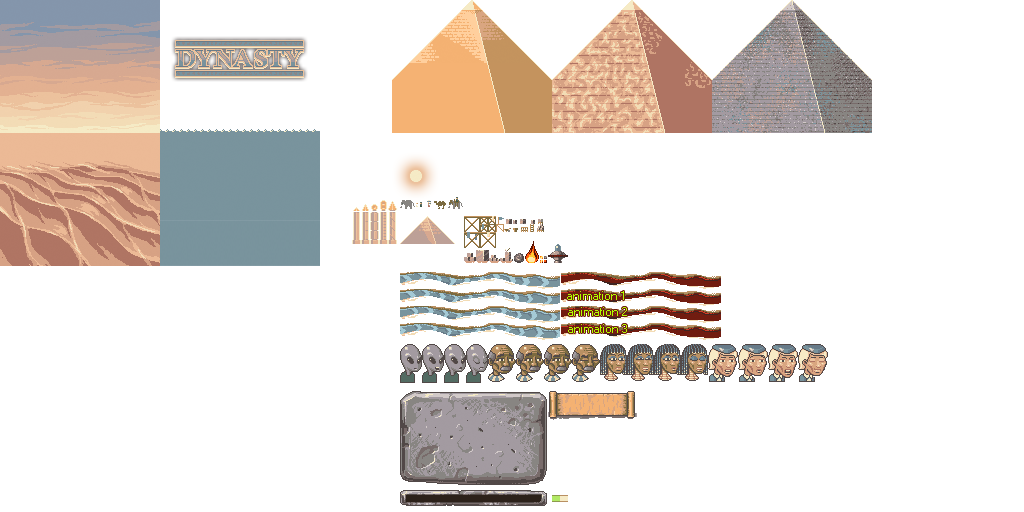
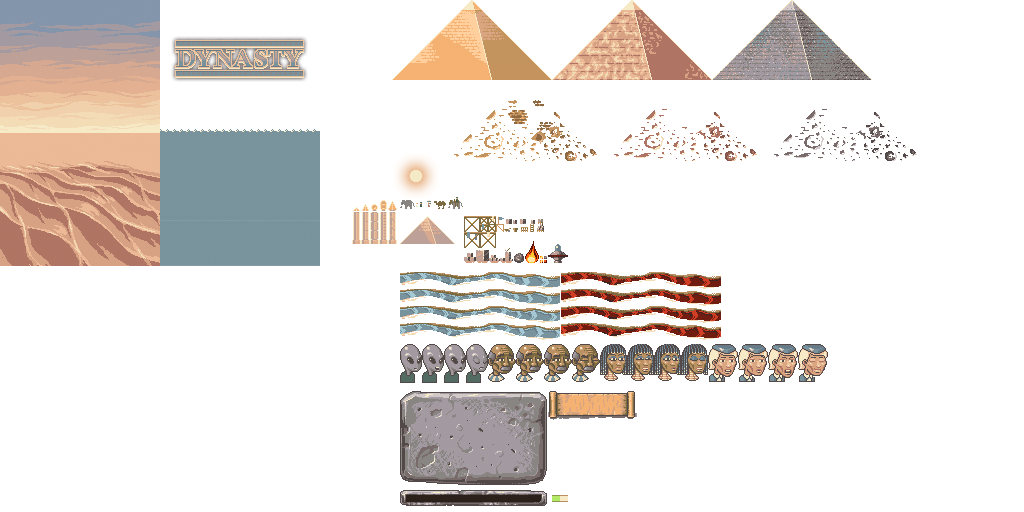
Blood river graphics + better score distribution.

Changed region(s): [[0.375, 0.1562, 0.9062, 0.3125], [0.5312, 0.5312, 0.625, 0.6562], [0.6562, 0.5312, 0.6875, 0.6562]]

diff --git a/core/src/net/mostlyoriginal/game/system/endgame/EndgameSystem.java b/core/src/net/mostlyoriginal/game/system/endgame/EndgameSystem.java
@@ -6,7 +6,10 @@ import net.mostlyoriginal.api.plugin.extendedcomponentmapper.M;
 import net.mostlyoriginal.game.G;
 import net.mostlyoriginal.game.component.agent.EndgameReached;
 import net.mostlyoriginal.game.component.resource.Stockpile;
+import net.mostlyoriginal.game.manager.StructureSystem;
 import net.mostlyoriginal.game.system.dilemma.DilemmaSystem;
+import net.mostlyoriginal.game.system.resource.MinionSystem;
+import net.mostlyoriginal.game.system.resource.StockpileSystem;
 import net.mostlyoriginal.game.system.ui.ScaffoldDioramaSystem;
 
 /**
@@ -15,9 +18,12 @@ import net.mostlyoriginal.game.system.ui.ScaffoldDioramaSystem;
 public class EndgameSystem extends IteratingSystem {
 
     protected M<Stockpile> mStockpile;
+    protected StockpileSystem stockpileSystem;
+    protected MinionSystem minionSystem;
     protected DilemmaSystem dilemmaSystem;
     ScaffoldDioramaSystem scaffoldDioramaSystem;
     protected M<EndgameReached> mEndgameReached;
+    private StructureSystem structureSystem;
 
     public EndgameSystem() {
         super(Aspect.all(Stockpile.class).exclude(EndgameReached.class));
@@ -37,14 +43,45 @@ public class EndgameSystem extends IteratingSystem {
         }
     }
 
+    private static final int COMPLETION_SCORE_FACTOR = 20;
+    public static final int FULL_COMPLETION_SCORE = G.MAX_COMPLETION * G.MAX_COMPLETION * COMPLETION_SCORE_FACTOR;
+    public static final int HALF_COMPLETION_SCORE = (int) ((G.MAX_COMPLETION*0.75f) * (G.MAX_COMPLETION*0.75f) * COMPLETION_SCORE_FACTOR);
+    public static final int QUARTER_COMPLETION_SCORE = (int) ((G.MAX_COMPLETION*0.5f) * (G.MAX_COMPLETION*0.5f) * COMPLETION_SCORE_FACTOR);
+    public static final int SOME_COMPLETION_SCORE = 6 * 6 * COMPLETION_SCORE_FACTOR;
+    public static final int MODERATE_COMPLETION_SCORE = 4 * 4 * COMPLETION_SCORE_FACTOR;
+    public static final int TINY_COMPLETION_SCORE = 2 * 2 * COMPLETION_SCORE_FACTOR;
+
+    public int getScore() {
+        float completion = (stockpileSystem.get(StockpileSystem.Resource.COMPLETION) +
+                (structureSystem.getObeliskCount()*0.5f));
+        return
+                (int) ((completion * completion * COMPLETION_SCORE_FACTOR) +
+                                minionSystem.totalProductivity());
+    }
+
     public Success getSuccess() {
-        return Success.BAD;
+        if ( getScore() >= FULL_COMPLETION_SCORE) {
+            return Success.SUPER;
+        } else if ( getScore() >= HALF_COMPLETION_SCORE) {
+            return Success.AMAZING;
+        } else if ( getScore() >= QUARTER_COMPLETION_SCORE) {
+            return Success.GREAT;
+        } else if ( getScore() >= SOME_COMPLETION_SCORE) {
+            return Success.GOOD;
+        } else if ( getScore() >= MODERATE_COMPLETION_SCORE) {
+            return Success.MODERATE;
+        } else if ( getScore() >= TINY_COMPLETION_SCORE) {
+            return Success.TINY;
+        } else{
+            return Success.BAD;
+        }
     }
 
     public enum Success {
         BAD,
         TINY,
         MODERATE,
+        GOOD,
         GREAT,
         AMAZING,
         SUPER

diff --git a/core/src/net/mostlyoriginal/game/system/dilemma/DilemmaSystem.java b/core/src/net/mostlyoriginal/game/system/dilemma/DilemmaSystem.java
@@ -182,7 +182,7 @@ public class DilemmaSystem extends EntityProcessingSystem {
             int maxLabelWidth = AssetSystem.SLAB_WIDTH * G.ZOOM - 20 * G.ZOOM;
 
             for (String text : dilemma.text) {
-                row+=2*G.ZOOM+createLabel(slabX + textMarginX, slabY - textMarginY + AssetSystem.SLAB_HEIGHT * G.ZOOM - row, COLOR_DILEMMA, text, DILEMMA_SHADOW_TEXT_COLOR, maxLabelWidth);
+                row+=2*G.ZOOM+createLabel(slabX + textMarginX, slabY - textMarginY + AssetSystem.SLAB_HEIGHT * G.ZOOM - row, COLOR_DILEMMA, replaceTokens(text), DILEMMA_SHADOW_TEXT_COLOR, maxLabelWidth);
             }
 
             for (Dilemma.Choice choice : dilemma.choices) {
@@ -196,6 +196,10 @@ public class DilemmaSystem extends EntityProcessingSystem {
         }
 
         return dilemma;
+    }
+
+    private String replaceTokens(String text) {
+        return text.replace("{score}", ""+endgameSystem.getScore()).replace("{rank}", ""+endgameSystem.getSuccess().name());
     }
 
     private void createBackground(int x, int y, String actorId, String actorName, String actorRole) {

diff --git a/core/src/net/mostlyoriginal/game/manager/StructureSystem.java b/core/src/net/mostlyoriginal/game/manager/StructureSystem.java
@@ -109,4 +109,8 @@ public class StructureSystem extends Manager {
     public boolean hasObelisk() {
         return tagManager.getEntity(TAG_OBELISK) != null;
     }
+
+    public float getObeliskCount() {
+        return groupManager.getEntities("obelisks").size();
+    }
 }
